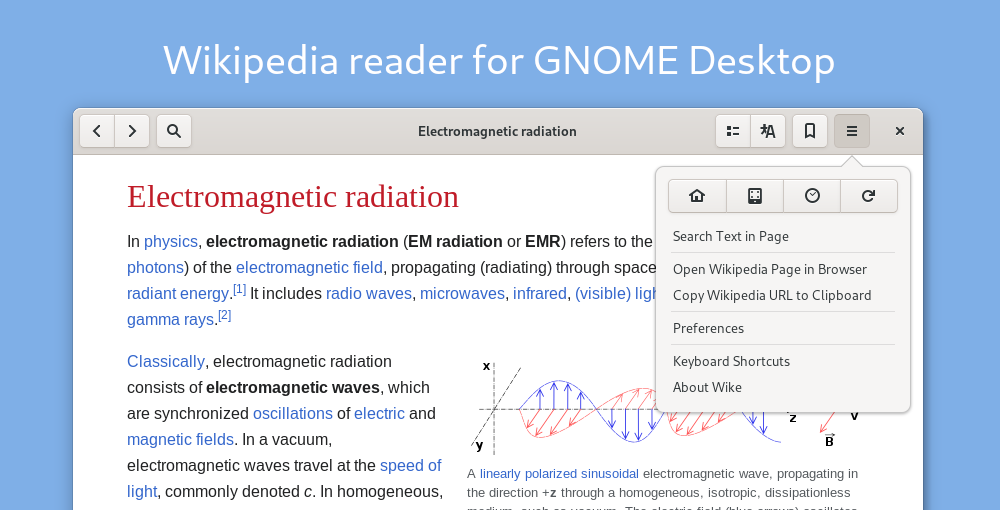
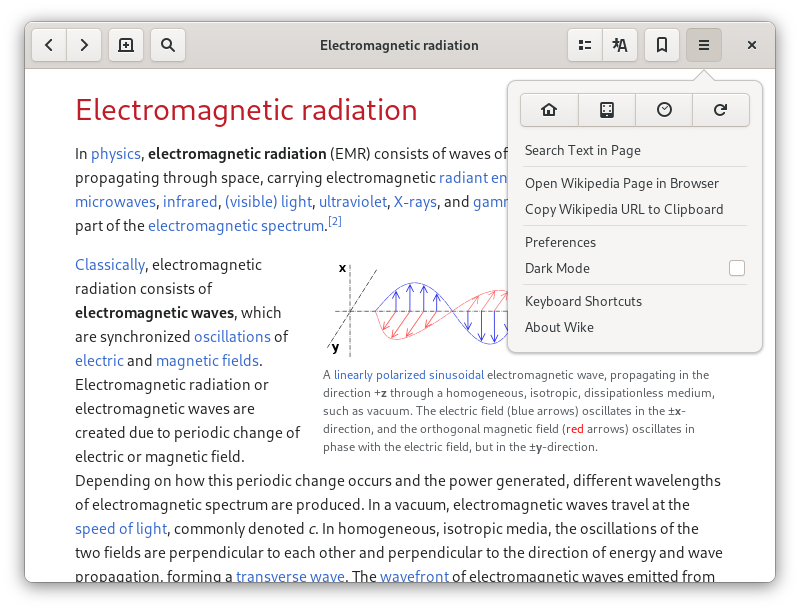
Update screenshots

diff --git a/README.md b/README.md
@@ -2,13 +2,14 @@
 
 # Wike
 
-![](data/screenshots/wike-01-main.png)
+![](data/screenshots/wike-02-tabs.png)
 
 *Wike* is a Wikipedia reader for the GNOME Desktop.
 Provides access to all the content of this online encyclopedia in a native application, with a simpler and distraction-free view of articles.
 
 ## Features
 
+- Open multiple articles in tabs
 - Multiple languages
 - Search suggestions
 - List of recent articles
